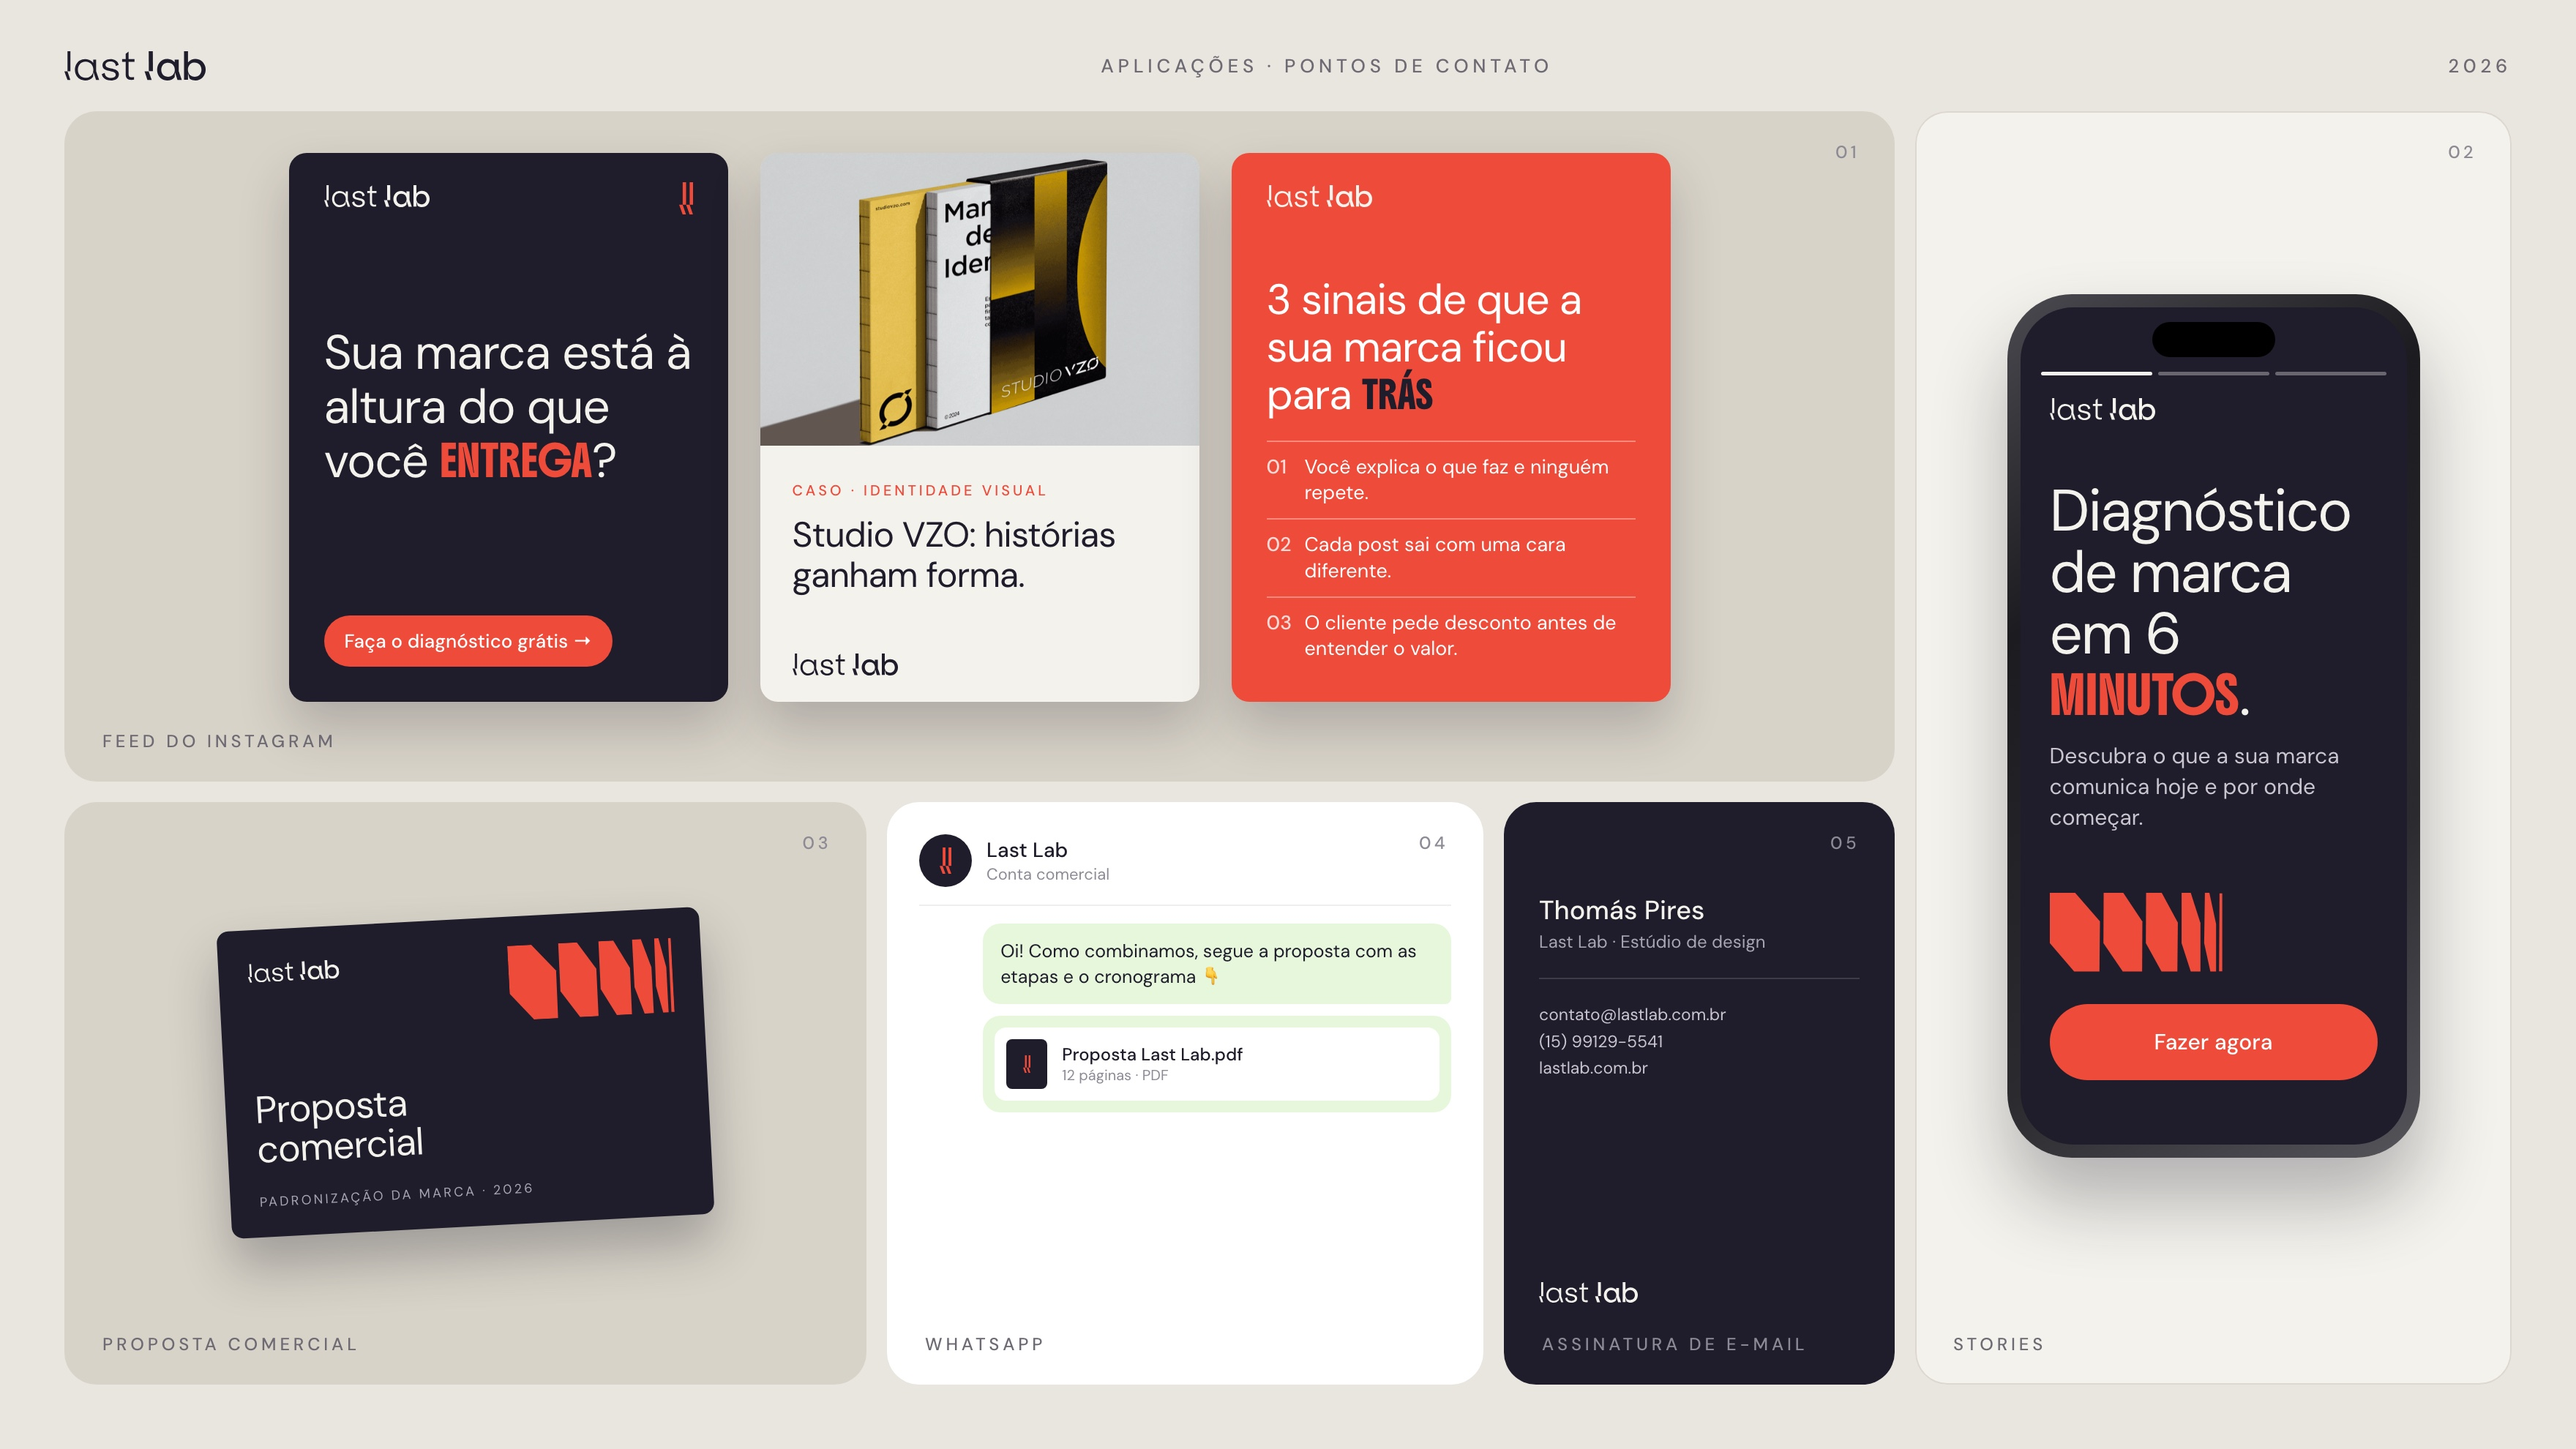
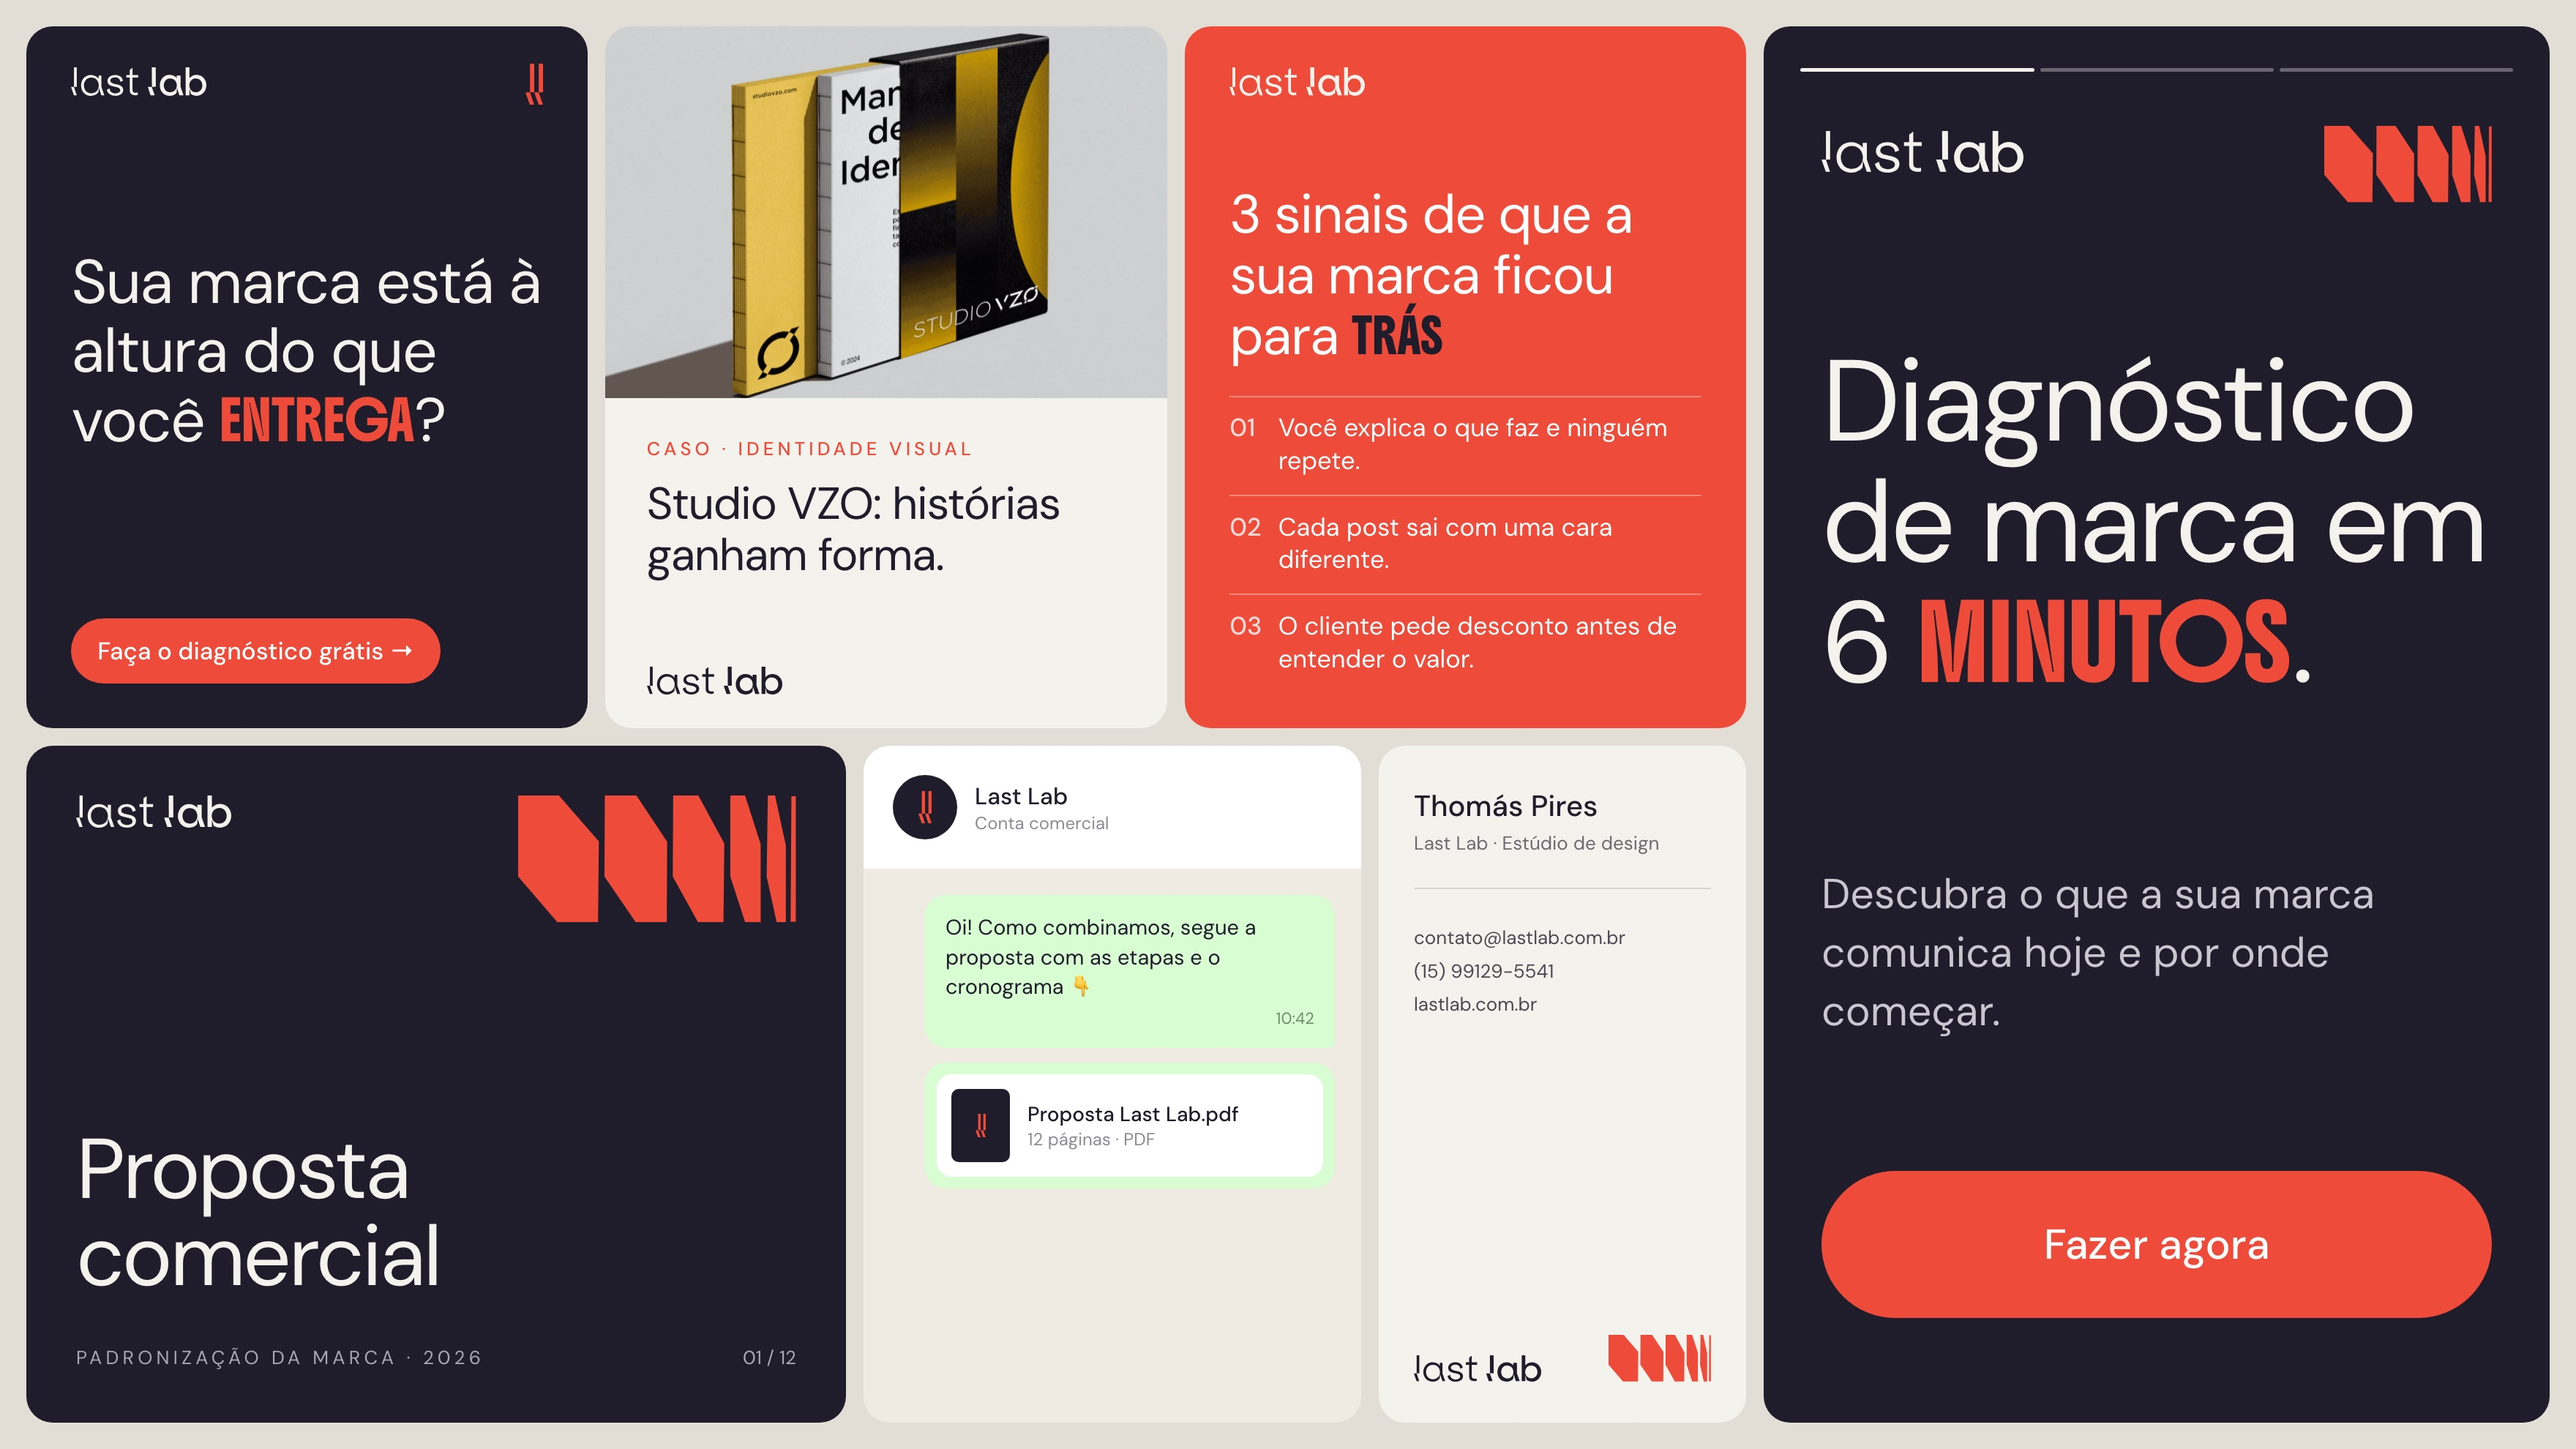
O que você recebe: one-page com os entregáveis reais; aplicações em bento grid

diff --git a/src/admin/AdminApresentacao.jsx b/src/admin/AdminApresentacao.jsx
@@ -1235,6 +1235,15 @@ function PreviaEntrega({ d }) {
 
 function Entrega({ d, escala }) {
   const s = d.oferta.servico;
+  // one-page de vitrine: os entregáveis de verdade, feitos com a marca da Last Lab
+  if (s.vitrineEntrega) {
+    return (
+      <Slide livre escala={escala} d={d} classe="rodape-suave">
+        <P x={77} y={44} s={36} peso={300} como="h2" cor="#8a8a8a">{`O que você recebe · ${d.oferta.titulo}`}</P>
+        <img src={s.vitrineEntrega} alt="" style={{ position: "absolute", left: 240, top: 120, width: 1440, height: 810, objectFit: "contain", borderRadius: 20, boxShadow: "0 30px 60px rgba(0,0,0,.12)" }} />
+      </Slide>
+    );
+  }
   const comMateriais = d.materiais.length > 0;
   return (
     <Slide escala={escala} d={d} classe={comMateriais ? "vt-slide-entrega" : ""}>

diff --git a/src/admin/catalogoOfertas.js b/src/admin/catalogoOfertas.js
@@ -11,6 +11,7 @@ export const SERVICOS = {
     exemplo: "redes",
     vitrine: "/images/entregaveis/brand-board-lastlab.jpg",
     vitrineAplicacoes: "/images/entregaveis/aplicacoes-lastlab.jpg",
+    vitrineEntrega: "/images/entregaveis/recebe-padronizacao.jpg",
     depois: ["Uma marca só, do Instagram ao orçamento", "Posts no padrão, feitos por você em minutos", "Quem chega entende de cara o que vocês fazem"],
     nome: "Padronização da marca",
     promessa: "Uma marca só, com cara de empresa séria, fácil de manter.",
